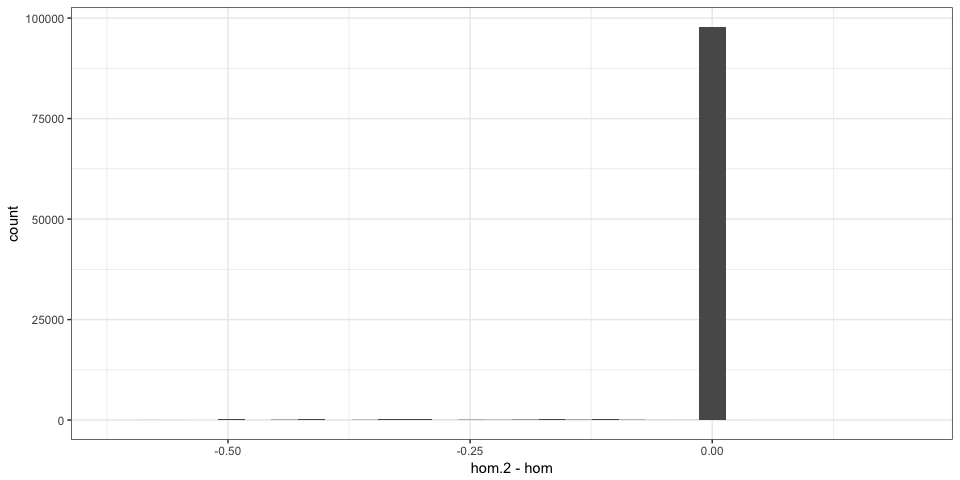
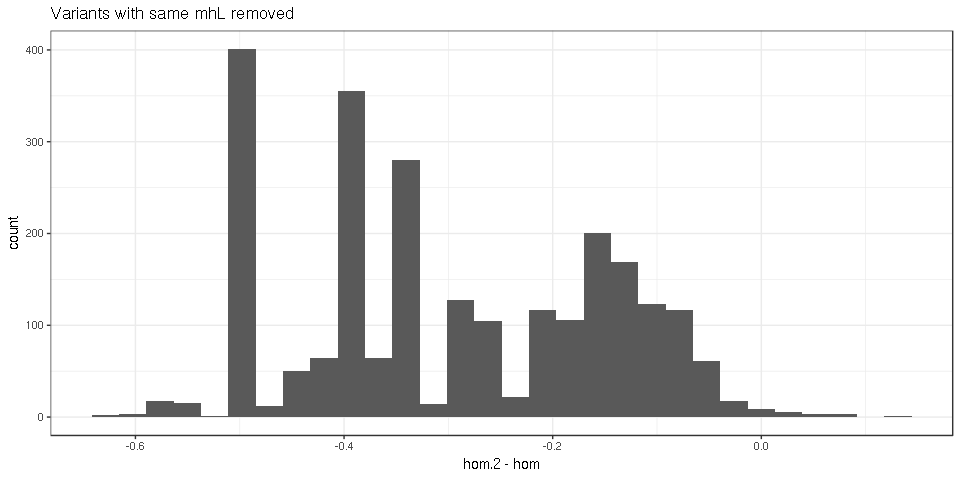
now using the 100K benchmark results

diff --git a/reports/1mismatchVs2mismatches.md b/reports/1mismatchVs2mismatches.md
@@ -1,9 +1,9 @@
 Allowing for 2 consecutive mismatches in the MH
 ===============================================
 
-MHcut was run twice: allowing for maximum one consecutive mismatch and
-allowing for 2. Here both output are compared to quantify how much we
-gain/lose.
+MHcut was run twice: allowing for maximum one consecutive mismatch and allowing for 2. Here both output are compared to quantify how much we gain/lose.
+
+A quick summary in [benchmark-summary.md](benchmark-summary.md) shows the effect on the number of variants for a few selection criteria.
 
 ``` r
 ## For data manipulation
@@ -23,20 +23,18 @@ winsor <- function(x, u = 10) {
 }
 ```
 
-We load the coordinate column, rs ID and the MH columns that we want to
-compare (mhL, mh1L, hom, mhDist).
+We load the coordinate column, rs ID and the MH columns that we want to compare (mhL, mh1L, hom, mhDist).
 
 ``` r
 ## read.table('../data/mhcut-dbsnp-clinvar-deletion-variants.tsv.gz',
 ## nrows=1)
-var1 = fread("gunzip -c ../data/mhcut-dbsnp-clinvar-deletion-variants.tsv.gz", 
+var1 = fread("../scripts-dbSNP-ClinVar/dbsnp-clinvar-deletion-100KforBenchmark-1CMM-jellyfish-bestFl-variants.tsv", 
     select = c(1:4, 20:23, 25))
-var2 = fread("gunzip -c ../data/mhcut-dbsnp-clinvar-deletion-2MM-variants.tsv.gz", 
+var2 = fread("../scripts-dbSNP-ClinVar/dbsnp-clinvar-deletion-100KforBenchmark-2CMM-jellyfish-bestFl-variants.tsv", 
     select = c(1:4, 20:23, 25))
 ```
 
-We then merge the two output by coordinate and rs ID. This takes a few
-minutes, there are 2x43M to merge after all.
+We then merge the two output by coordinate and rs ID. This takes a few minutes, there are 2x43M to merge after all.
 
 ``` r
 setkey(var1, chr, start, end, RS, varL)
@@ -48,57 +46,48 @@ var = var[, .(chr, start, end, RS, varL, mh1L, mh1L.2, mhL, mhL.2, hom, hom.2,
 head(var)
 ```
 
-    ##     chr start   end         RS varL mh1L mh1L.2 mhL mhL.2  hom hom.2
-    ## 1: chr1 10109 10114 1377973775    6    6      6   6     6 1.00  1.00
-    ## 2: chr1 10110 10114 1462685959    5    1      1   4     4 0.75  0.75
-    ## 3: chr1 10120 10120 1156821933    1    0      0   0     0 0.00  0.00
-    ## 4: chr1 10129 10147 1457723673   19   19     19  19    19 1.00  1.00
-    ## 5: chr1 10132 10132 1289482855    1    0      0   0     0 0.00  0.00
-    ## 6: chr1 10133 10137 1390118706    5    0      0   0     0 0.00  0.00
+    ##     chr  start    end         RS varL mh1L mh1L.2 mhL mhL.2 hom hom.2
+    ## 1: chr1  13229  13229 1452078127    1    0      0   0     0   0     0
+    ## 2: chr1  66375  66375 1315341348    1    0      0   0     0   0     0
+    ## 3: chr1  99023  99023 1404242465    1    0      0   0     0   0     0
+    ## 4: chr1 138097 138099 1373342756    3    2      2   2     2   1     1
+    ## 5: chr1 259817 259817 1252152510    1    1      1   1     1   1     1
+    ## 6: chr1 260959 260959 1353644827    1    1      1   1     1   1     1
     ##    mhDist mhDist.2
-    ## 1:      0        0
-    ## 2:      1        1
+    ## 1:     NA       NA
+    ## 2:     NA       NA
     ## 3:     NA       NA
-    ## 4:      0        0
-    ## 5:     NA       NA
-    ## 6:     NA       NA
+    ## 4:      1        1
+    ## 5:      0        0
+    ## 6:      0        0
 
 Same *mh1L*?
 ------------
 
-Allowing for consecutive mismatches shouldn’t affect the first stretch
-of exact matches in theory.
+Allowing for consecutive mismatches shouldn't affect the first stretch of exact matches in theory.
 
 ``` r
 mean(var$mh1L == var$mh1L.2)
 ```
 
-    ## [1] 0.9999962
+    ## [1] 0.99999
 
 ``` r
 var.m1 = as.data.frame(var[mh1L != mh1L.2, ])
 ```
 
-There are 164 variants with different *mh1L*. Hum…
+There are 1 variants with different *mh1L*. Hum...
 
-My only guess is that the selection of the *best* flanks was different.
-Allowing for 2 consecutive mismatches produced sometimes a longer MH for
-the alternative flank pair which was then selected, leading to different
-MH metrics. Now I regret not having a column which record which flanks
-were used (outer-inner or inner-outer).
-
-Maybe I can recompute the score that was used to chose the best flank.
-If the score in the 2-mismatches run is always higher, then it fits with
-the explanation. The score gives a weight of 2 for the first stretch of
-exact match and 1 to other matches.
+My only guess is that the selection of the *best* flanks was different. Allowing for 2 consecutive mismatches produced sometimes a longer MH for the alternative flank pair which was then selected, leading to different MH metrics. Maybe I can recompute the score that was used to chose the best flank. If the score in the 2-mismatches run is always higher, then it fits with the explanation. The score gives a weight of 2 for the first stretch of exact match and 1 to other matches.
 
 ``` r
 var.m1 %>% mutate(score = mh1L + hom * mhL, score.2 = mh1L.2 + hom.2 * mhL.2) %>% 
-    ggplot(aes(x = score, y = score.2)) + geom_point(alpha = 0.4) + theme_bw() + 
-    geom_abline()
+    kable
 ```
 
-![](1mismatchVs2mismatches_files/figure-markdown_github/unnamed-chunk-5-1.png)
+| chr   |     start|       end| RS        |  varL|  mh1L|  mh1L.2|  mhL|  mhL.2|   hom|  hom.2|  mhDist|  mhDist.2|  score|  score.2|
+|:------|---------:|---------:|:----------|-----:|-----:|-------:|----:|------:|-----:|------:|-------:|---------:|------:|--------:|
+| chr14 |  30895088|  30895095| 386776068 |     8|     1|       3|    8|      6|  0.63|   0.67|       0|         2|   6.04|     7.02|
 
 That fits with the *flank selection* explanation.
 
@@ -109,33 +98,25 @@ Longer micro-homology?
 mean(var$mhL.2 > var$mhL)
 ```
 
-    ## [1] 0.0221911
+    ## [1] 0.02466
 
-Around 2.2% of the variants have a longer MH when allowing for 2
-mismatches.
+Around 2.5% of the variants have a longer MH when allowing for 2 mismatches.
 
 Graphs with a random subset of the data:
 
 ``` r
 var.ss = var[sample.int(nrow(var), 1e+05), ]
-ggplot(var.ss, aes(x = winsor(mhL, 20), y = winsor(mhL.2, 20))) + geom_bin2d(binwidth = c(1, 
-    1)) + theme_bw()
-```
-
-![](1mismatchVs2mismatches_files/figure-markdown_github/unnamed-chunk-7-1.png)
-
-``` r
 ggplot(var.ss, aes(x = mhL.2 - mhL)) + geom_histogram() + theme_bw()
 ```
 
-![](1mismatchVs2mismatches_files/figure-markdown_github/unnamed-chunk-7-2.png)
+![](1mismatchVs2mismatches_files/figure-markdown_github/unnamed-chunk-7-1.png)
 
 ``` r
 var.ss %>% filter(mhL != mhL.2) %>% ggplot(aes(x = mhL.2 - mhL)) + geom_histogram() + 
     theme_bw() + ggtitle("Variants with same mhL removed")
 ```
 
-![](1mismatchVs2mismatches_files/figure-markdown_github/unnamed-chunk-7-3.png)
+![](1mismatchVs2mismatches_files/figure-markdown_github/unnamed-chunk-7-2.png)
 
 Any with shorter MH?
 
@@ -143,28 +124,18 @@ Any with shorter MH?
 sum(var$mhL.2 < var$mhL)
 ```
 
-    ## [1] 6
+    ## [1] 1
 
 ``` r
 var[mhL.2 < mhL, ]
 ```
 
-    ##      chr     start       end        RS varL mh1L mh1L.2 mhL mhL.2  hom
-    ## 1: chr10 120690688 120690699 386748260   12    1      4  11     9 0.82
-    ## 2: chr14  30895088  30895095 386776068    8    1      3   8     6 0.63
-    ## 3: chr19  42213783  42213802 386809414   20    1      2  10     8 0.60
-    ## 4:  chr2 201468090 201468101 796800290   12    4      7  12    10 0.92
-    ## 5:  chr5  58212179  58212196 774210060   18    1      1  18    15 0.61
-    ## 6:  chrX 100699403 100699416 386826653   14    1      2  14    12 0.64
-    ##    hom.2 mhDist mhDist.2
-    ## 1:  0.67      1        3
-    ## 2:  0.67      0        2
-    ## 3:  0.63     10       12
-    ## 4:  0.80      0        2
-    ## 5:  0.73      0        3
-    ## 6:  0.75      0        2
+    ##      chr    start      end        RS varL mh1L mh1L.2 mhL mhL.2  hom hom.2
+    ## 1: chr14 30895088 30895095 386776068    8    1      3   8     6 0.63  0.67
+    ##    mhDist mhDist.2
+    ## 1:      0        2
 
-Just a few and most likely because of the *flank selection*.
+Most likely because of the *flank selection*.
 
 Shorter mhDist?
 ---------------
@@ -174,27 +145,19 @@ If the MH length is longer, the distance between MH should be smaller.
 Graphs with a random subset of the data:
 
 ``` r
-ggplot(var.ss, aes(x = mhDist, y = mhDist.2)) + geom_bin2d() + theme_bw() + 
-    geom_abline()
-```
-
-![](1mismatchVs2mismatches_files/figure-markdown_github/unnamed-chunk-9-1.png)
-
-``` r
 ggplot(var.ss, aes(x = mhDist.2 - mhDist)) + geom_histogram() + theme_bw()
 ```
 
-![](1mismatchVs2mismatches_files/figure-markdown_github/unnamed-chunk-9-2.png)
+![](1mismatchVs2mismatches_files/figure-markdown_github/unnamed-chunk-9-1.png)
 
 ``` r
 var.ss %>% filter(mhL != mhL.2) %>% ggplot(aes(x = mhDist.2 - mhDist)) + geom_histogram() + 
     theme_bw() + ggtitle("Variants with same mhL removed")
 ```
 
-![](1mismatchVs2mismatches_files/figure-markdown_github/unnamed-chunk-9-3.png)
+![](1mismatchVs2mismatches_files/figure-markdown_github/unnamed-chunk-9-2.png)
 
-As expected most of the variants that were further extended have a
-shorter distance between their MH.
+As expected most of the variants that were further extended have a shorter distance between their MH.
 
 Lower homology?
 ---------------
@@ -202,46 +165,16 @@ Lower homology?
 Graphs with a random subset of the data:
 
 ``` r
-ggplot(var.ss, aes(x = hom, y = hom.2)) + geom_bin2d() + theme_bw() + geom_abline()
-```
-
-![](1mismatchVs2mismatches_files/figure-markdown_github/unnamed-chunk-10-1.png)
-
-``` r
 ggplot(var.ss, aes(x = hom.2 - hom)) + geom_histogram() + theme_bw()
 ```
 
-![](1mismatchVs2mismatches_files/figure-markdown_github/unnamed-chunk-10-2.png)
+![](1mismatchVs2mismatches_files/figure-markdown_github/unnamed-chunk-10-1.png)
 
 ``` r
 var.ss %>% filter(mhL != mhL.2) %>% ggplot(aes(x = hom.2 - hom)) + geom_histogram() + 
     theme_bw() + ggtitle("Variants with same mhL removed")
 ```
 
-![](1mismatchVs2mismatches_files/figure-markdown_github/unnamed-chunk-10-3.png)
+![](1mismatchVs2mismatches_files/figure-markdown_github/unnamed-chunk-10-2.png)
 
-As expected most of the variants that were further extended have a lower
-homology.
-
-Effect on a typical filtering example
--------------------------------------
-
-Let’s say we want variants with a MH starting with at least 3 exact
-matches (**mh1L&gt;2**) and a maximum MHdist of 5 (**mhDist&lt;6**). How
-many variants do we “gain” by allowing 2 mismatches in the MH?
-
-``` r
-nb1 = nrow(var[mh1L > 2 & mhDist < 6, ])
-nb2 = nrow(var[mh1L.2 > 2 & mhDist.2 < 6, ])
-nb2 - nb1
-```
-
-    ## [1] 167189
-
-``` r
-nb2/nb1
-```
-
-    ## [1] 1.016913
-
-We get 167189 more variants, a 1.69% increase.
+As expected most of the variants that were further extended have a lower homology.
